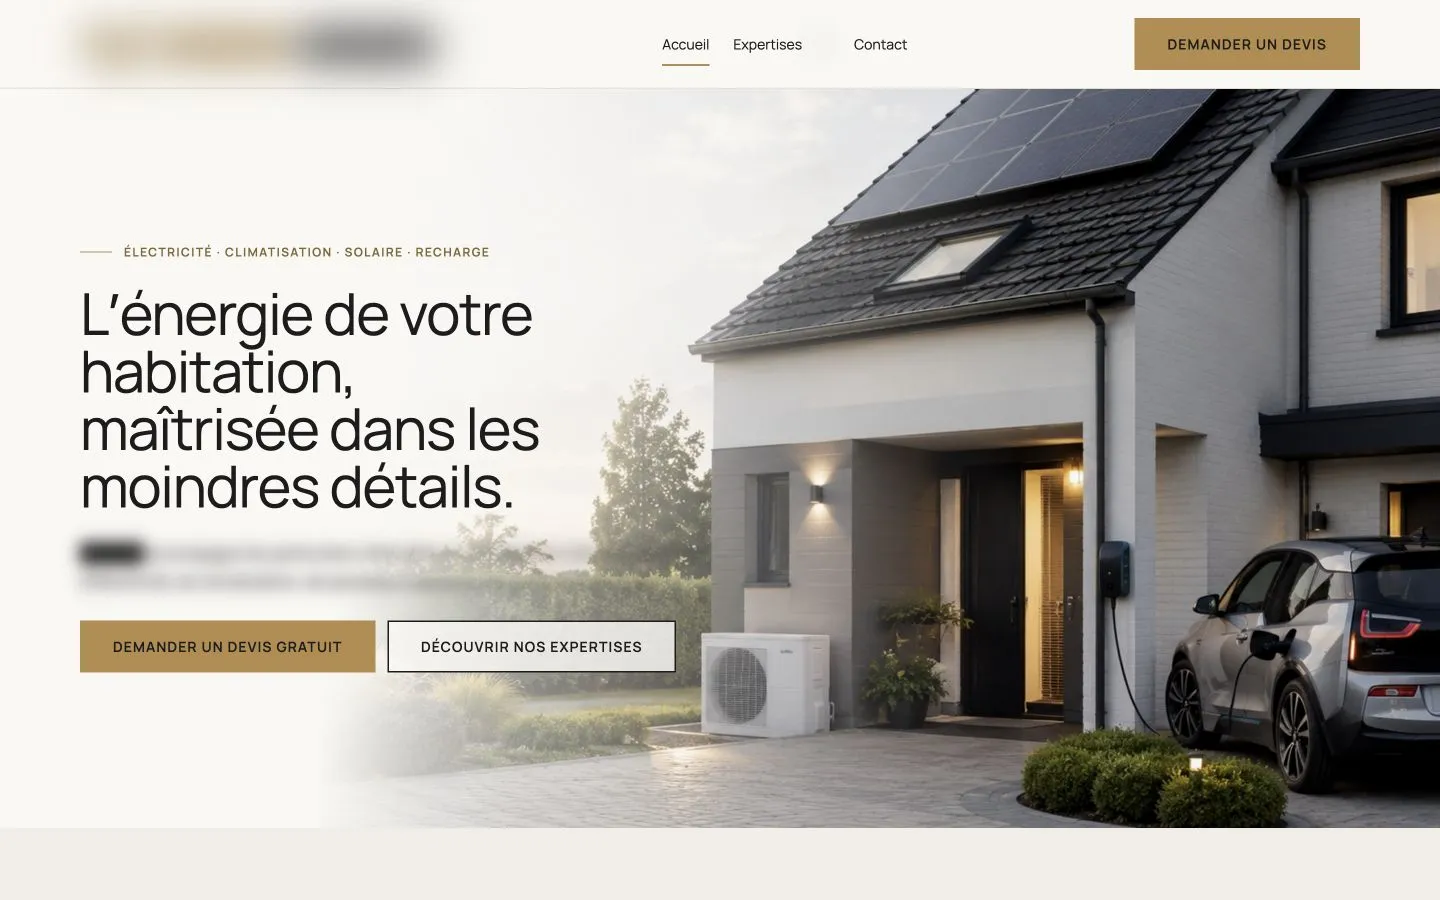
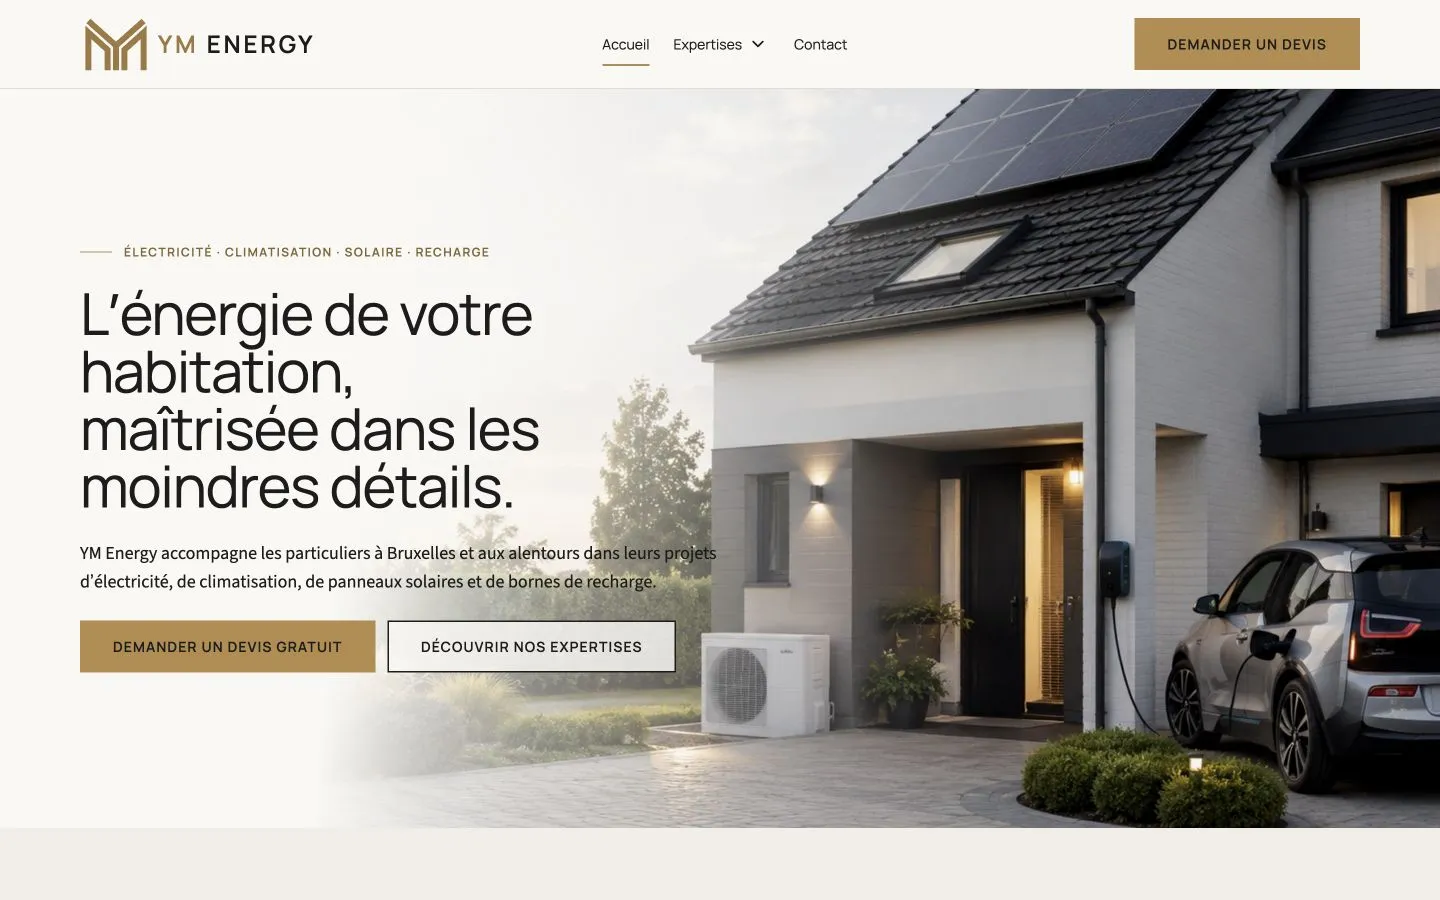
Simplifier les réalisations et remplacer les captures sans floutage

Changed region(s): [[0.0312, 0.5911, 0.5, 0.6844], [0.0312, 0.0, 0.3125, 0.0933], [0.4062, 0.0311, 0.625, 0.0622]]

diff --git a/site-internet-electricien.html b/site-internet-electricien.html
@@ -46,9 +46,8 @@
 <section class="section"><div class="container site-story"><div class="section-heading"><h2>Les erreurs fréquentes sur les fiches Google d’électriciens</h2><a class="site-text-link" href="/optimisation-google-business">Voir ce qui est inclus (dès 99 €) →</a></div><ul class="site-list"><li>Catégorie principale mal choisie</li><li>Services secondaires absents : bornes, solaire, conformité</li><li>Zone desservie trop vague</li><li>Aucune photo de réalisation</li><li>Horaires d’urgence non précisés</li><li>Avis sans réponse</li></ul></div></section>
 <section class="section site-before"><div class="container site-story"><div class="section-heading"><h2>Ce qu’un site d’électricien doit montrer</h2><a class="site-text-link" href="/refonte-site-internet">Voir comment se passe un projet →</a></div><ul class="site-list"><li>Expertises séparées</li><li>Bouton de devis visible tout de suite</li><li>Méthode de travail</li><li>Zone d’intervention</li><li>Lecture sur téléphone</li></ul></div></section>
 <section class="section realisation-section"><div class="container">
-<div class="section-heading"><span class="section-kicker">EXEMPLE DE RÉALISATION</span><h2>Un site pour un électricien de la région bruxelloise</h2><p>Une entreprise d’électricité, de climatisation, de panneaux solaires et de bornes de recharge, qui travaille pour des particuliers. Son besoin : un site clair, qui inspire confiance et qui amène des demandes de devis.</p></div>
-<div class="realisation-grid"><div><h3>Ce que nous avons construit</h3><ul class="site-list"><li>une page d’accueil qui présente les quatre expertises en un coup d’œil ;</li><li>un bouton « Demander un devis » visible dès le premier écran ;</li><li>la méthode de travail expliquée en cinq étapes, du premier échange à la mise en service ;</li><li>une zone d’intervention clairement indiquée ;</li><li>une lecture confortable sur téléphone.</li></ul><p class="site-small">Nom du client non communiqué.</p></div>
-<picture><source media="(max-width: 767px)" srcset="/assets/images/realisation-electricien-bruxelles-mobile.webp" width="780" height="1688"><img src="/assets/images/realisation-electricien-bruxelles-desktop.webp" width="1440" height="900" loading="lazy" alt="Aperçu du site d’un électricien de la région bruxelloise, version téléphone et ordinateur"></picture></div>
+<div class="section-heading"><span class="section-kicker">EXEMPLE DE RÉALISATION</span><h2>Le site d’un électricien bruxellois</h2></div>
+<div class="realisation-grid"><picture><source media="(max-width: 767px)" srcset="/assets/images/realisation-electricien-bruxelles-mobile.webp" width="780" height="1688"><img src="/assets/images/realisation-electricien-bruxelles-desktop.webp" width="1440" height="900" loading="lazy" alt="Aperçu du site d’un électricien bruxellois, version téléphone et ordinateur"></picture></div>
 </div></section>
 <section class="section page-final site-before"><div class="container">
 <h2>Vos clients vous cherchent déjà. Faites en sorte qu'ils vous choisissent.</h2>

diff --git a/index.html b/index.html
@@ -147,7 +147,7 @@
 </header>
 <main id="contenu">
 <section class="site-hero"><div class="container site-hero-grid">
-<div><span class="section-kicker">FICHE GOOGLE ET SITE INTERNET POUR INDÉPENDANTS</span>
+<div><span class="section-kicker">FICHE GOOGLE ET SITE INTERNET POUR ARTISANS ET INDÉPENDANTS</span>
 <h1>Vous faites du bon travail. <span>En ligne, ça ne se voit pas encore.</span></h1>
 <p class="site-lead">Avant d’appeler, vos clients regardent votre fiche Google et votre site. Peu de photos, des infos datées, un site illisible sur téléphone : ils appellent un concurrent. Nous corrigeons ça à distance, à partir de 99 €.</p>
 <p class="site-reassurance">À partir de 99 € · Paiement unique, sans abonnement · Réponse sous 48 h ouvrées · Une seule interlocutrice</p></div>
@@ -184,9 +184,8 @@
 </div></section>
 
 <section class="section realisation-section"><div class="container">
-<div class="section-heading"><span class="section-kicker">EXEMPLE DE RÉALISATION</span><h2>Un site pour un électricien de la région bruxelloise</h2><p>Une entreprise d’électricité, de climatisation, de panneaux solaires et de bornes de recharge, qui travaille pour des particuliers. Son besoin : un site clair, qui inspire confiance et qui amène des demandes de devis.</p></div>
-<div class="realisation-grid"><div><h3>Ce que nous avons construit</h3><ul class="site-list"><li>une page d’accueil qui présente les quatre expertises en un coup d’œil ;</li><li>un bouton « Demander un devis » visible dès le premier écran ;</li><li>la méthode de travail expliquée en cinq étapes, du premier échange à la mise en service ;</li><li>une zone d’intervention clairement indiquée ;</li><li>une lecture confortable sur téléphone.</li></ul><p class="site-small">Nom du client non communiqué.</p></div>
-<picture><source media="(max-width: 767px)" srcset="/assets/images/realisation-electricien-bruxelles-mobile.webp" width="780" height="1688"><img src="/assets/images/realisation-electricien-bruxelles-desktop.webp" width="1440" height="900" loading="lazy" alt="Aperçu du site d’un électricien de la région bruxelloise, version téléphone et ordinateur"></picture></div>
+<div class="section-heading"><span class="section-kicker">EXEMPLE DE RÉALISATION</span><h2>Le site d’un électricien bruxellois</h2></div>
+<div class="realisation-grid"><picture><source media="(max-width: 767px)" srcset="/assets/images/realisation-electricien-bruxelles-mobile.webp" width="780" height="1688"><img src="/assets/images/realisation-electricien-bruxelles-desktop.webp" width="1440" height="900" loading="lazy" alt="Aperçu du site d’un électricien bruxellois, version téléphone et ordinateur"></picture></div>
 </div></section>
 
 <section class="section site-before"><div class="container">

diff --git a/css/conversion.css b/css/conversion.css
@@ -44,14 +44,13 @@ a:focus-visible, button:focus-visible, summary:focus-visible { outline: 3px soli
 }
 [hidden] { display: none !important; }
 .hero-contact-link { grid-column: 1 / -1; text-align: center; }
-.realisation-grid { display: grid; grid-template-columns: 1fr 1.15fr; gap: 36px; align-items: center; margin-top: 32px; }
-.realisation-grid .site-list { margin-top: 20px; }
-.realisation-grid img { display: block; width: 100%; height: auto; border: 1px solid var(--border); border-radius: var(--radius-md); }
-.realisation-grid .site-small { margin-top: 20px; }
+.realisation-grid { display: grid; grid-template-columns: 1fr; margin-top: 32px; }
+.realisation-grid img { display: block; width: 100%; height: auto; border: 1px solid var(--border); border-radius: var(--radius-md); box-shadow: 0 8px 24px rgba(17, 40, 70, .08); }
 .process-steps { grid-template-columns: repeat(3, minmax(0, 1fr)); gap: 28px; }
 @media (max-width: 767px) {
  .realisation-grid, .process-steps { grid-template-columns: 1fr; }
- .realisation-grid picture { max-width: 390px; margin: auto; }
+ .realisation-grid picture { width: 100%; max-width: 390px; margin: auto; }
+ .realisation-grid img { max-height: 480px; object-fit: cover; object-position: top; }
 }
 @media (min-width: 1101px) {
  .footer-grid { grid-template-columns: minmax(0, 1.3fr) minmax(150px, 1fr) minmax(100px, .6fr) minmax(170px, 1fr); gap: 30px; }
